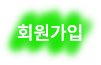
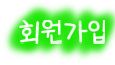
update project

diff --git a/public/styles.css b/public/styles.css
@@ -2681,7 +2681,7 @@ input:focus-visible {
 .account-image-link img {
   display: block;
   width: auto;
-  height: 48px;
+  height: 58px;
 }
 .top-inner {
   grid-template-columns: 300px minmax(360px, 1fr) max-content;